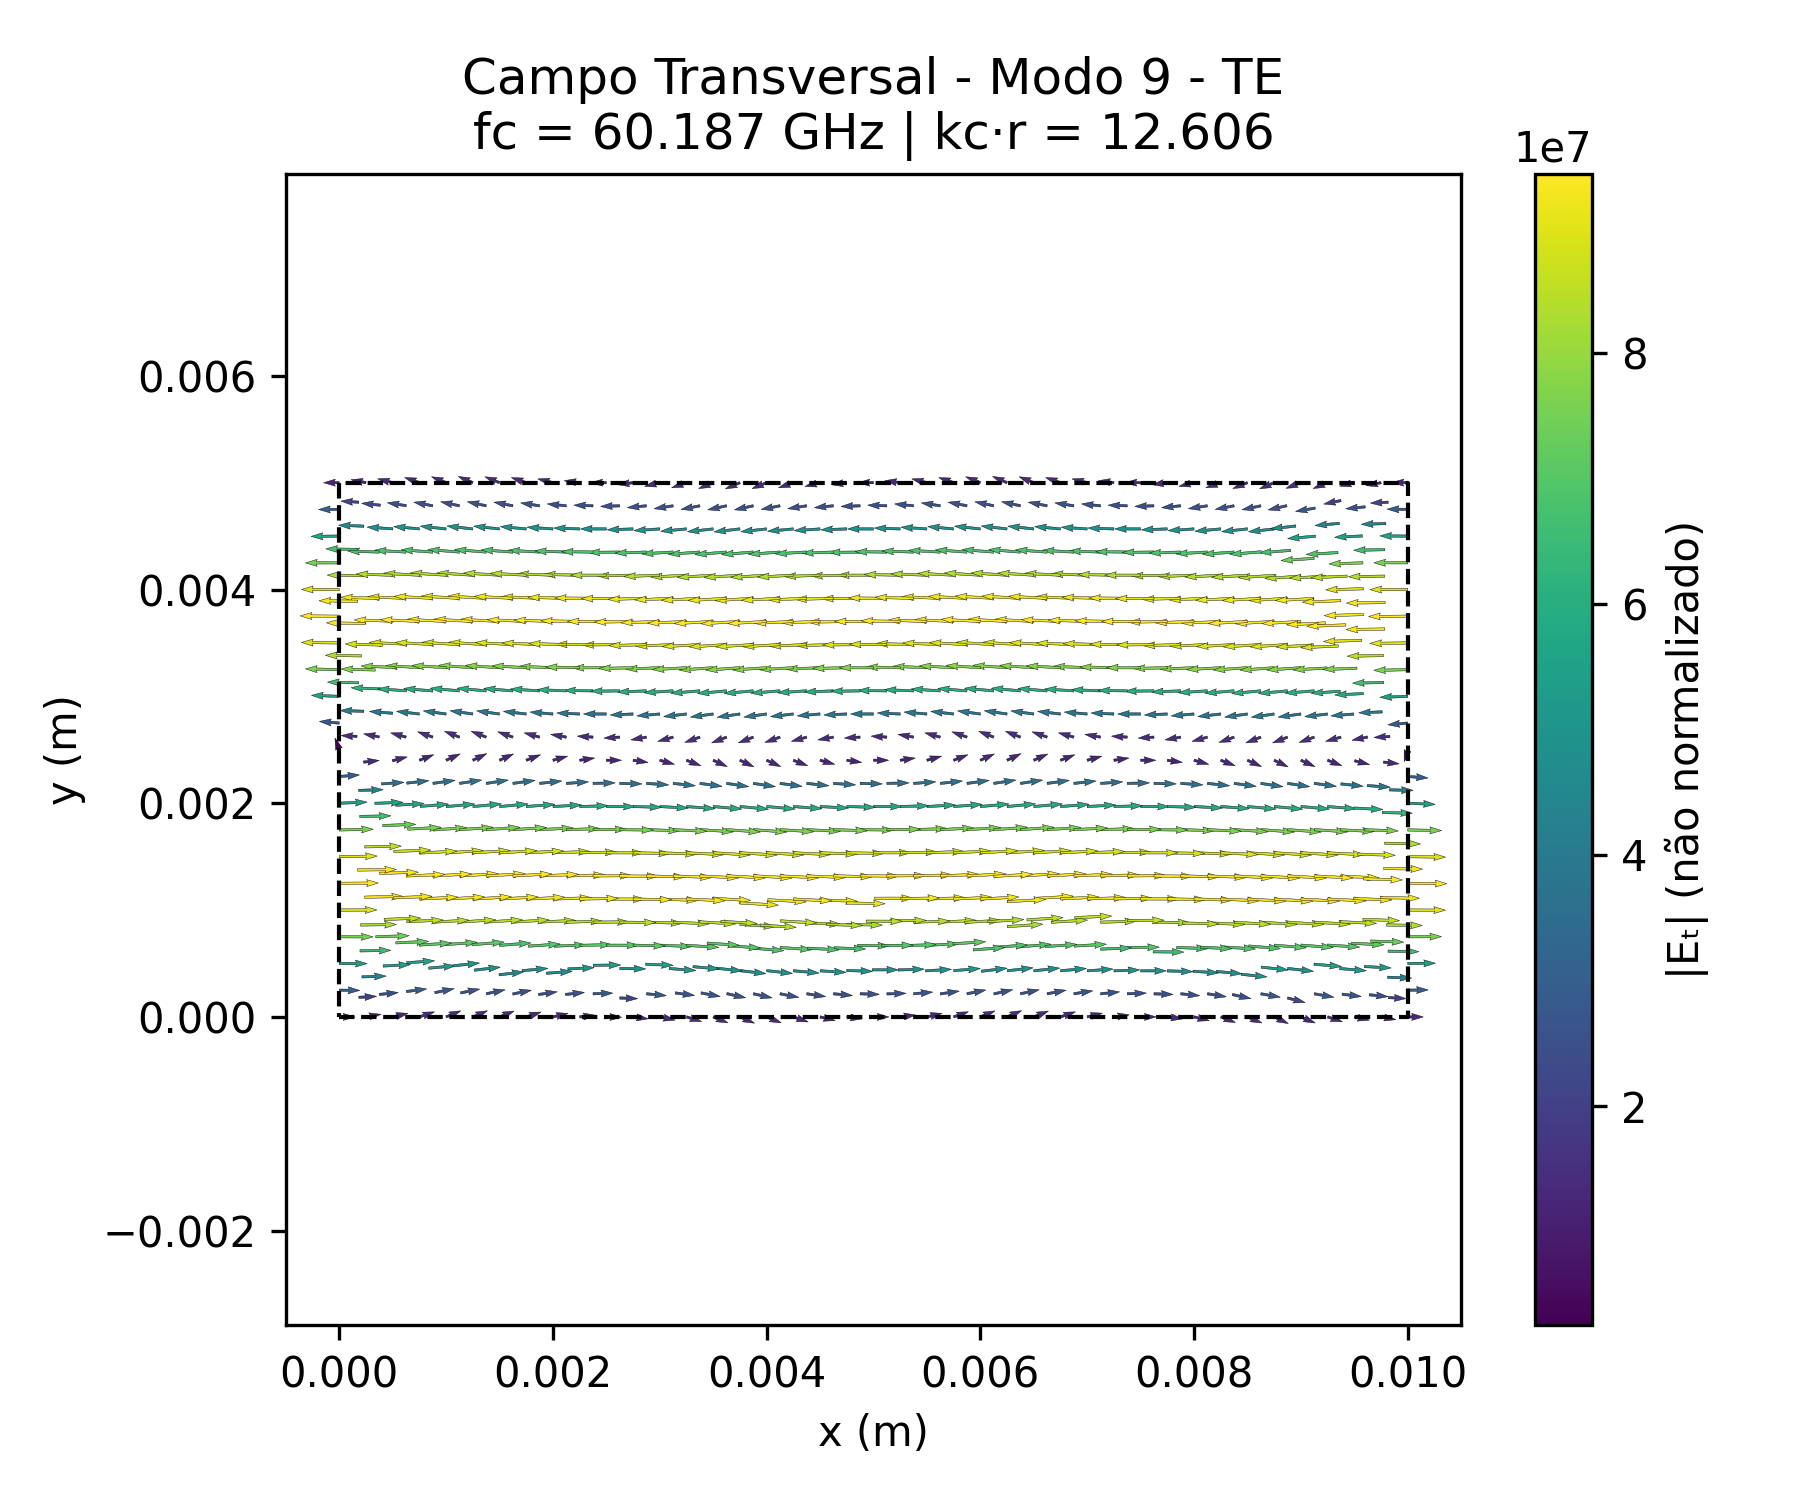
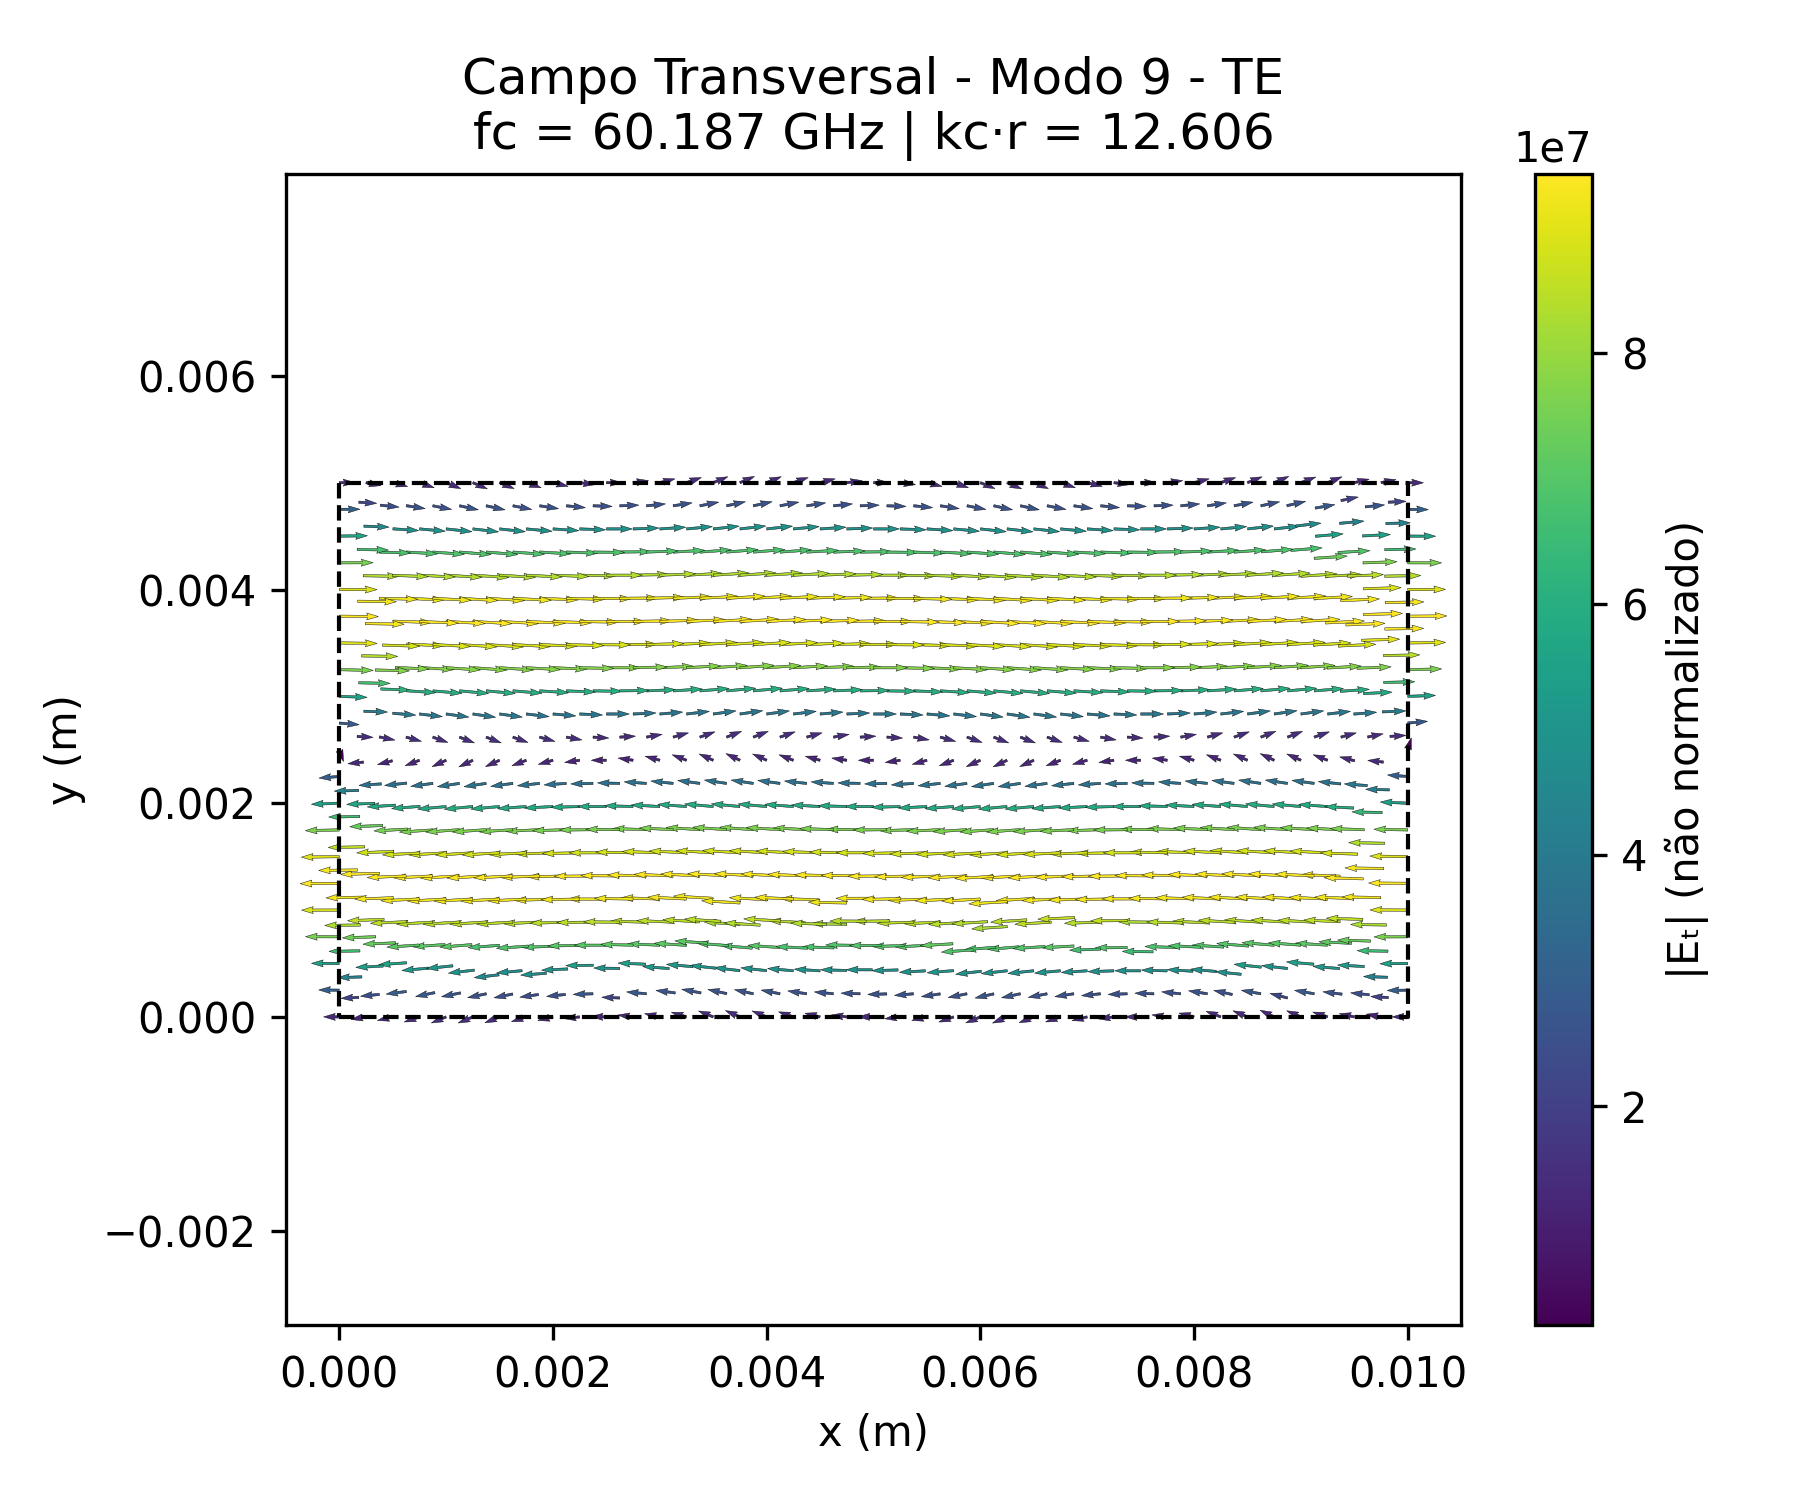
Teste.

Changed region(s): [[0.1556, 0.3067, 0.8089, 0.6747]]

diff --git a/waveguide_modes.py b/waveguide_modes.py
@@ -82,11 +82,11 @@ def solve_modes_with_gmsh(a=0.01, b=0.005, mode='TM', num_modes=6, filename='tes
             mat = np.array([[1, x[0], y[0]], [1, x[1], y[1]], [1, x[2], y[2]]])
             De = np.linalg.det(mat)
             Ae = abs(De / 2)
-            b = np.array([(y[1] - y[2]) / De, (y[2] - y[0]) / De, (y[0] - y[1]) / De])
-            c_ = np.array([(x[2] - x[1]) / De, (x[0] - x[2]) / De, (x[1] - x[0]) / De])
+            b = np.array([(y[1] - y[2]), (y[2] - y[0]), (y[0] - y[1])])#b = np.array([(y[1] - y[2]) / De, (y[2] - y[0]) / De, (y[0] - y[1]) / De])
+            c_ = np.array([(x[2] - x[1]), (x[0] - x[2]), (x[1] - x[0])])#c_ = np.array([(x[2] - x[1]) / De, (x[0] - x[2]) / De, (x[1] - x[0]) / De])
             for i in range(3):
                 for j in range(3):
-                    Se = (b[i] * b[j] + c_[i] * c_[j]) * Ae
+                    Se = (b[i] * b[j] + c_[i] * c_[j]) / (4 * Ae) #Se = (b[i] * b[j] + c_[i] * c_[j]) * Ae
                     Te = Ae / 6 if i == j else Ae / 12
                     if node_id[n[i]] != 0 and node_id[n[j]] != 0:
                         S[index[n[i]]-1, index[n[j]]-1] += Se
@@ -139,11 +139,11 @@ def solve_modes_with_gmsh(a=0.01, b=0.005, mode='TM', num_modes=6, filename='tes
             mat = np.array([[1, x[0], y[0]], [1, x[1], y[1]], [1, x[2], y[2]]])
             De = np.linalg.det(mat)
             Ae = abs(De / 2)
-            b = np.array([(y[1] - y[2]) / De, (y[2] - y[0]) / De, (y[0] - y[1]) / De])
-            c_ = np.array([(x[2] - x[1]) / De, (x[0] - x[2]) / De, (x[1] - x[0]) / De])
+            b = np.array([(y[1] - y[2]), (y[2] - y[0]), (y[0] - y[1])])#b = np.array([(y[1] - y[2]) / De, (y[2] - y[0]) / De, (y[0] - y[1]) / De])
+            c_ = np.array([(x[2] - x[1]), (x[0] - x[2]), (x[1] - x[0])])#c_ = np.array([(x[2] - x[1]) / De, (x[0] - x[2]) / De, (x[1] - x[0]) / De])
             for i in range(3):
                 for j in range(3):
-                    Se = (b[i] * b[j] + c_[i] * c_[j]) * Ae
+                    Se = (b[i] * b[j] + c_[i] * c_[j]) / (4 * Ae) #Se = (b[i] * b[j] + c_[i] * c_[j]) * Ae
                     Te = Ae / 6 if i == j else Ae / 12
                     S[n[i], n[j]] += Se
                     T[n[i], n[j]] += Te
@@ -202,10 +202,6 @@ def solve_modes_with_gmsh(a=0.01, b=0.005, mode='TM', num_modes=6, filename='tes
         fig_path = os.path.join(save_path, f"modo_{q+1}_{mode}.png")
         plt.savefig(fig_path, dpi=300)
         plt.close()
-
-
-
-
 
     # === Pasta para gráficos vetoriais ===
     save_path_quiver = f"out/img/quiver_{mode.lower()}_{filename}"
